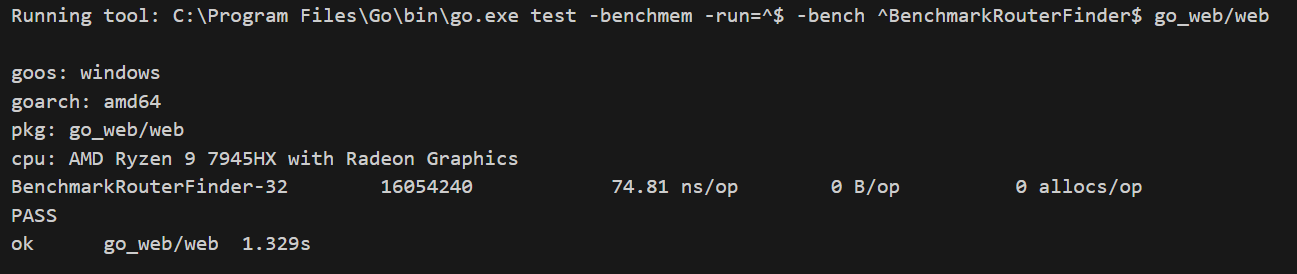
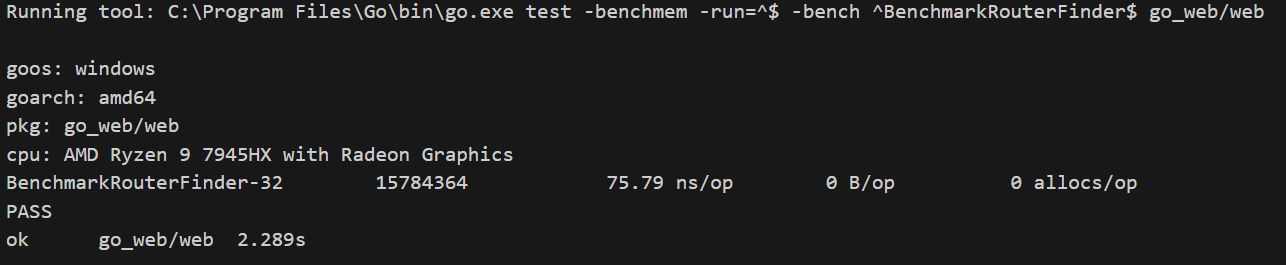
有无回溯benchmark对比

diff --git a/web/router_bench_test.go b/web/router_bench_test.go
@@ -163,27 +163,27 @@ func BenchmarkRouterFinder(b *testing.B) {
 			method: http.MethodGet,
 			path:   "/k1/k2/:id",
 		},
-		{
-			method: http.MethodGet,
-			path:   "/k1/k2/:id(.*)",
-		},
+		// {
+		// 	method: http.MethodGet,
+		// 	path:   "/k1/k2/:id(.*)",
+		// },
 		//回溯算法
 		{
 			method: http.MethodGet,
 			path:   "/k1/:reg(.*)/k3",
 		},
-		{
-			method: http.MethodGet,
-			path:   "/k1/:parm/k2",
-		},
-		{
-			method: http.MethodGet,
-			path:   "/k1/*/k1",
-		},
-		{
-			method: http.MethodGet,
-			path:   "/k1/*",
-		},
+		// {
+		// 	method: http.MethodGet,
+		// 	path:   "/k1/:parm/k2",
+		// },
+		// {
+		// 	method: http.MethodGet,
+		// 	path:   "/k1/*/k1",
+		// },
+		// {
+		// 	method: http.MethodGet,
+		// 	path:   "/k1/*",
+		// },
 	}
 
 	mockHandler := func(ctx *Context) {}

diff --git a/web/router_test.go b/web/router_test.go
@@ -166,12 +166,12 @@ func TestRoute(t *testing.T) {
 					"reg": {
 						path: "reg", typ: nodetypeStatic,
 						regexpChild: map[string]*node{
-							".*": &node{path: ":id(.*)", paramName: "id", handlefunc: mockhandler,
+							".*": {path: ":id(.*)", paramName: "id", handlefunc: mockhandler,
 								typ: nodetypeRegexp, regExpr: regexp.MustCompile(".*")},
 						}},
 				},
 				regexpChild: map[string]*node{
-					"^.+$": &node{
+					"^.+$": {
 						path: ":name(^.+$)", paramName: "name", regExpr: regexp.MustCompile("^.+$"), typ: nodetypeRegexp,
 						children: map[string]*node{
 							"abc": {path: "abc", typ: nodetypeStatic, handlefunc: mockhandler}},
